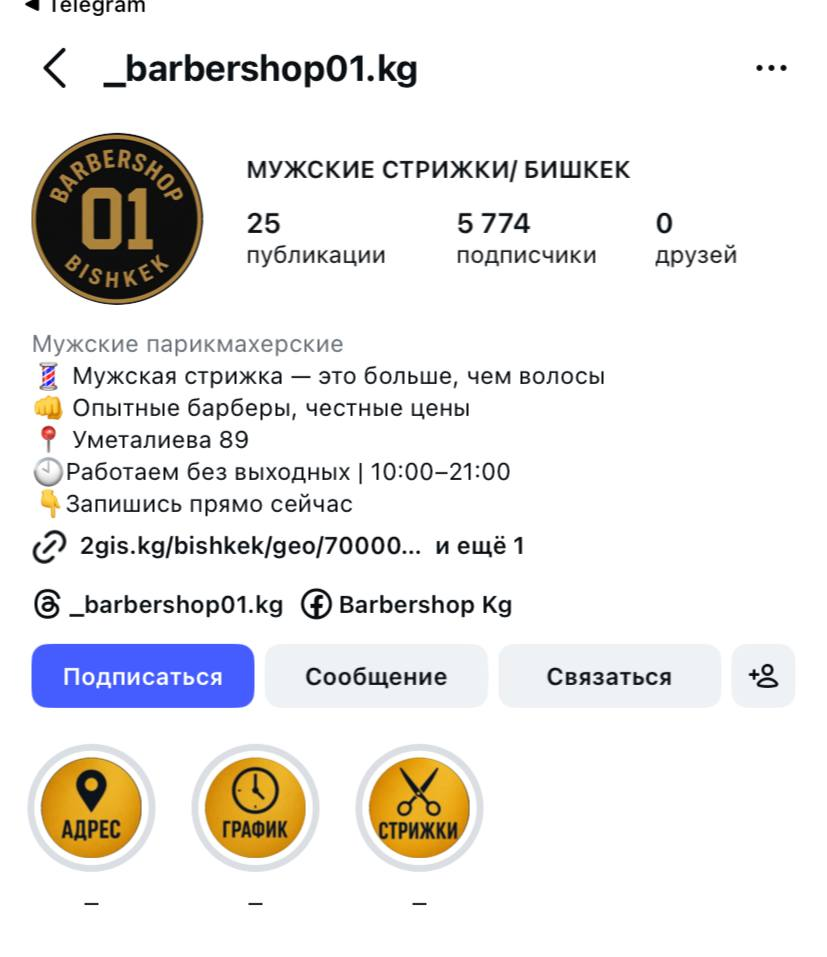
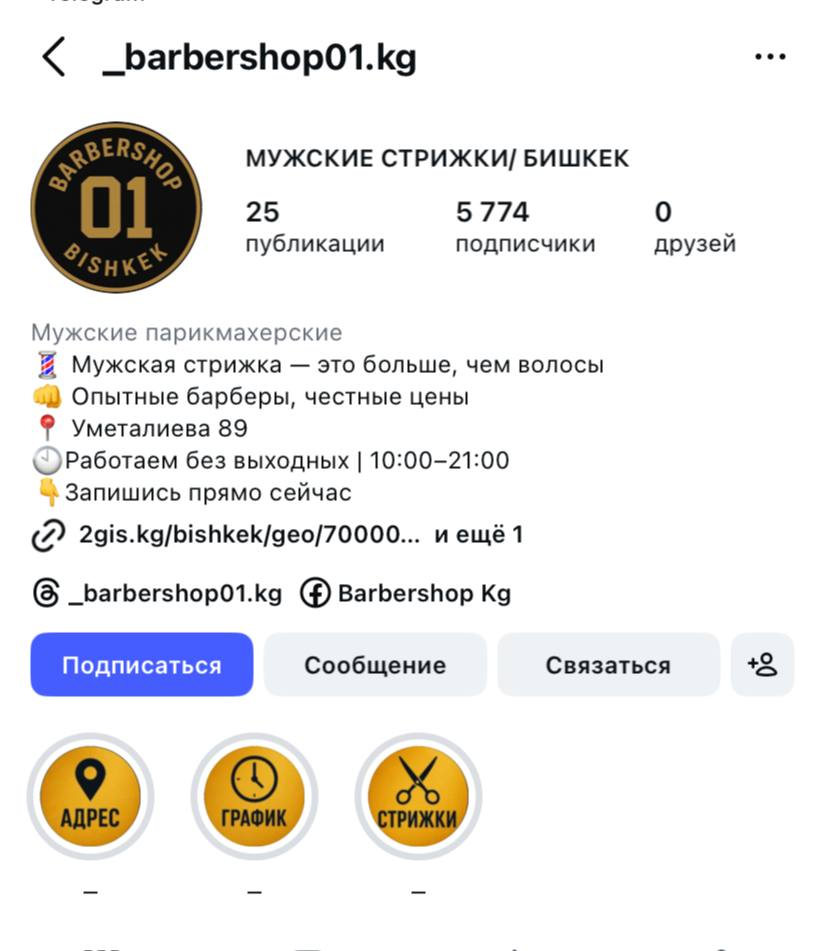
fead: update photo for awards

diff --git a/src/sections/Awards.jsx b/src/sections/Awards.jsx
@@ -10,9 +10,9 @@ import kutman_nurlanbek from "../assets/images/kutman_nurlanbek.jpg";
 import rahmanberdi from "../assets/images/rahmanberdi.jpg";
 import rayber_barbershop from "../assets/images/rayber_barbershop.jpg";
 import kutman_nurlanbekovich from "../assets/images/kutman_nurlanbekovich.jpg";
-import _barbershop from "../assets/images/_barbershop01.jpg";
-import turan_ned from "../assets/images/turan_ned.jpg";
-import turan_nedvizhimost from "../assets/images/turan_nedvizh.jpg";
+import _barbershop from "../assets/images/_barbershop01.jpg"
+import turan_ned from "../assets/images/turan_ned.jpg" 
+import turan_nedvizhimost from "../assets/images/turan_nedvizh.jpg" 
 
 function InstagramGlyph({ className }) {
   return (
@@ -49,8 +49,7 @@ const resultsData = {
       followers: 34000,
       role: "Владелец бизнеса",
       result: "Системные продажи",
-      description:
-        "Внедрение системы продаж в крупнейший магазин спорттоваров.",
+      description: "Внедрение системы продаж в крупнейший магазин спорттоваров.",
       img: azasport,
       handle: "@azasport_bishkek",
       insta: "https://www.instagram.com/azasport_bishkek/",
@@ -143,8 +142,7 @@ const resultsData = {
       followers: 34000,
       role: "Бизнес ээси",
       result: "Системалуу сатуу",
-      description:
-        "Спорт товарлар дүкөнүнө заманбап сатуу системасын киргизди.",
+      description: "Спорт товарлар дүкөнүнө заманбап сатуу системасын киргизди.",
       img: azasport,
       handle: "@azasport_bishkek",
       insta: "https://www.instagram.com/azasport_bishkek/",
@@ -154,8 +152,7 @@ const resultsData = {
       followers: 29000,
       role: "Топ-менеджер",
       result: "Кесиптик өсүү",
-      description:
-        "Ири келишимдерди түзүү жана Адамбектин скрипттерин колдонуу.",
+      description: "Ири келишимдерди түзүү жана Адамбектин скрипттерин колдонуу.",
       img: kutman_nurlanbek,
       handle: "@kutman_nurlanbek",
       insta: "https://www.instagram.com/kutman_nurlanbek/",
@@ -165,8 +162,7 @@ const resultsData = {
       followers: 16000,
       role: "Алдыңкы окуучу / Миллионер",
       result: "20k → 1M+ сом",
-      description:
-        "Жөнөкөй айлыктан миллионер статусуна чейинки жолду басып өттү.",
+      description: "Жөнөкөй айлыктан миллионер статусуна чейинки жолду басып өттү.",
       isGold: true,
       img: asanmavlonov,
       handle: "@asan_mavlonov",
@@ -226,13 +222,13 @@ const resultsData = {
 };
 const content = {
   ru: {
-    title: "УЧЕНИКИ",
+    title: "УЧЕНИКОВ",
     cta: "Смотреть отзыв",
     showAll: "Показать всех учеников →",
     hideAll: "Подождите немного, скоро будет больше",
   },
   kg: {
-    title: "ШАКИРТТЕРИМ",
+    title: "ШЕКИРТТЕРДИН ИЙГИЛИГИ",
     cta: "Пикирди көрүү",
     showAll: "Бардык шекирттерди көрүү →",
     hideAll: "Бир аз күтө тур, жакында дагы келет",
